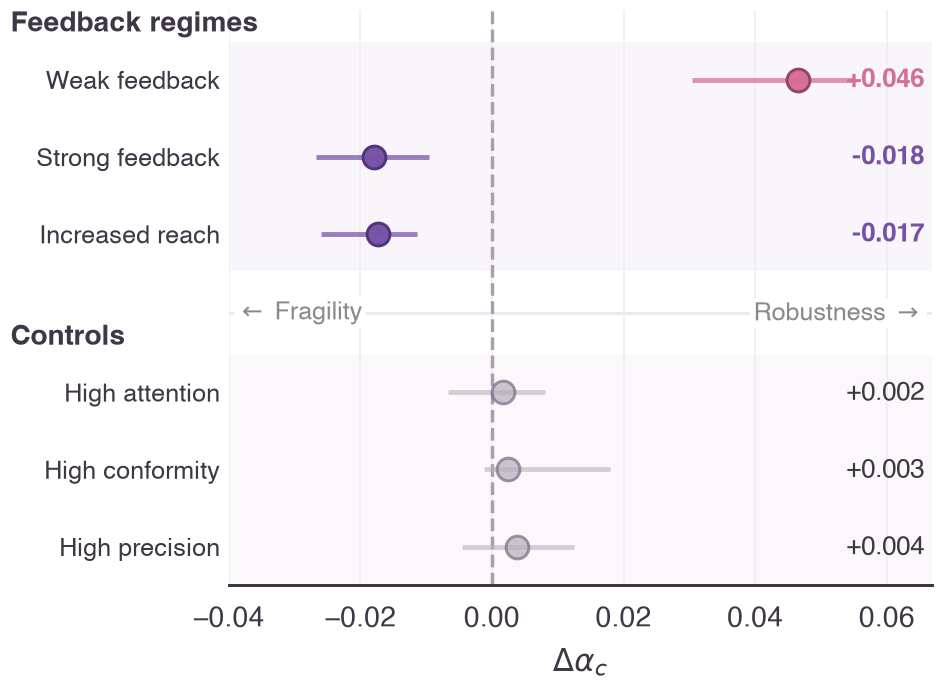
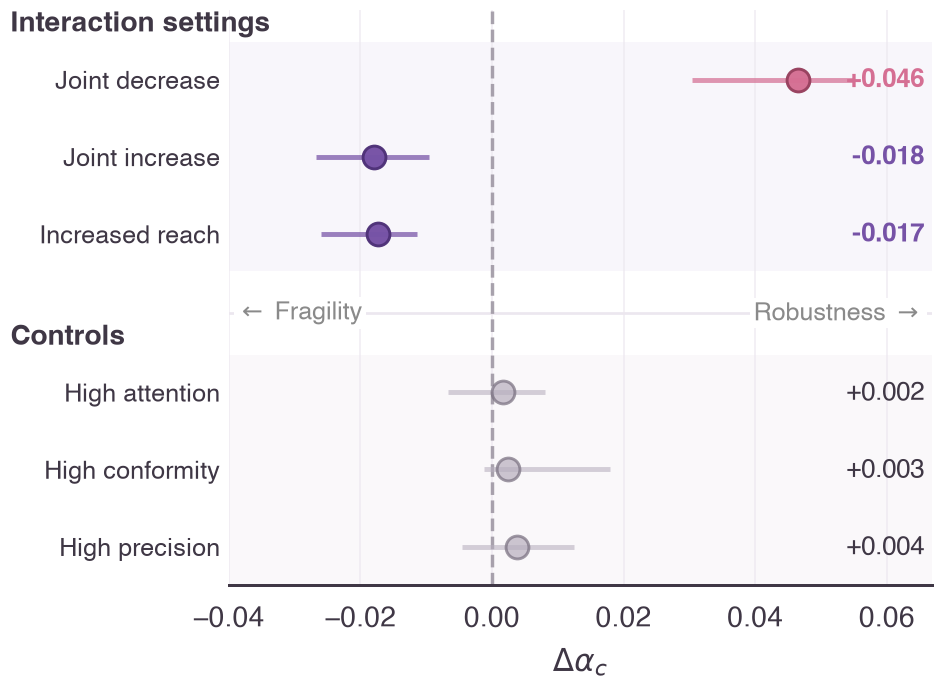
Align site and README with WolfSociety manuscript

Changed region(s): [[0.0, 0.0, 0.3079, 0.0611], [0.0308, 0.0917, 0.2463, 0.1528], [0.0308, 0.214, 0.2463, 0.2445]]

diff --git a/website/src/config/site.ts b/website/src/config/site.ts
@@ -1,11 +1,12 @@
 export const site = {
-  title: 'When Harm Scales',
-  subtitle: 'Social Dynamics of Nonlinear Collapse in Financial Agent Societies',
+  title: 'WolfSociety',
+  subtitle: 'Harmful-Agent Scaling and Collective Collapse in Financial Agent Societies',
   description:
-    'This work studies how harmful-agent scaling, social diffusion, and shared-state feedback shape critical transitions in interacting agent societies.',
+    'This work studies how harmful-agent composition, society size, and interaction structure shape collective collapse in a controlled financial agent society.',
   abstract: [
-    'Safety evaluations typically assess agents in isolation. Interacting agents, however, exchange messages and reshape shared environments, allowing local harmful behavior to propagate through social evidence, collective action, and market feedback. We study how society-level collapse varies with the harmful-agent fraction and population size in a controlled hybrid social–market environment.',
-    'We introduce Agent Society Dynamics, which separates size-dependent harmful pressure from amplification through shared-state feedback. Collapse is rare below a size-dependent boundary and rises sharply near it. As society size grows from 100 to 2,000, the measured 50% collapse boundary falls from 4.7% to 2.2%, while the corresponding effective harmful count, derived from the interpolated boundary, rises from 4.7 to 44. Fixed-count analyses show subcritical dilution, while matched interventions indicate that feedback strength and network reach shift the boundary under the tested protocol.',
+    'Safety evaluations typically focus on individual agents, but interacting agents can spread harmful information and influence the environment in which later decisions are made. We study how collective failure changes with harmful-agent fraction and society size in a controlled financial agent society, where agents communicate over a social network and trade in a shared market. In the primary scenario, collective failure requires broad harmful diffusion together with severe price dislocation or liquidity stress.',
+    'Across society sizes, failure remains rare at low harmful fractions but rises sharply over a narrow range. As the society grows from 100 to 2,000 agents, the harmful fraction associated with a 50% failure probability decreases from 4.7% to 2.2%, while the corresponding number of harmful agents increases from approximately 5 to 44. At a fixed harmful count, larger societies experience less severe disruption, and this pattern persists under fixed, square-root, and per-capita liquidity scaling. Controlled interventions further show that broader network reach shifts the collapse boundary toward lower harmful fractions, whereas stronger conformity alone has little effect.',
+    'To characterize these size-dependent effects, we introduce Agent Society Dynamics, a finite-size framework for relating harmful-agent composition, society size, and interaction structure to collective failure. Together, our results show that collective safety cannot be inferred from harmful-agent prevalence alone: the same harmful minority can have different system-level effects as the surrounding society grows.',
   ],
   authors: [
     'Lejun Zhang',
@@ -27,8 +28,8 @@ export const site = {
   },
 }
 
-export const bibtex = `@unpublished{zhang2027whenharm,
-  title={{When Harm Scales}: Social Dynamics of Nonlinear Collapse in Financial Agent Societies},
+export const bibtex = `@unpublished{zhang2027wolfsociety,
+  title={{WolfSociety}: Harmful-Agent Scaling and Collective Collapse in Financial Agent Societies},
   author={Zhang, Lejun and Lu-Liang, Sarah and Jiang, Xin and Wen, Muning and Zhang, Weinan and Gu, Shangding},
   note={Manuscript under review},
   year={2027}

diff --git a/website/src/components/SocialDynamics.tsx b/website/src/components/SocialDynamics.tsx
@@ -7,15 +7,15 @@ export function SocialDynamics() {
           We model collective failure as a closed-loop process. A harmful minority contributes pressure through communication and action; heterogeneous agents combine that pressure with private and social evidence; their responses then alter the shared social and market state observed by the rest of the population.
         </p>
         <p>
-          The framework separates attack aggregation, which describes how harmful pressure scales with society size, from feedback amplification, which captures amplification through shared-state feedback. Under a size-invariant collapse criterion, the sum of their scaling exponents determines how the critical harmful fraction changes with population size.
+          The framework connects the collapse boundary to two size-dependent components: initial harmful input, represented by αN<sup>δ</sup>, and the response that develops through subsequent interactions, represented by N<sup>ζ</sup>. Under a comparable collapse criterion across society sizes, their combined scaling gives ν = δ + ζ. We use this relation as a conceptual description; the experiments estimate the overall boundary exponent rather than identify δ and ζ as separate causal effects.
         </p>
       </div>
 
       <figure className="paper-figure theory-figure">
-        <div className="theory-flow" aria-label="Harmful pressure passes through heterogeneous decisions and shared-state feedback to create a collective response">
+        <div className="theory-flow" aria-label="Harmful input passes through heterogeneous decisions and repeated interaction to create a collective response">
           <div className="theory-step">
             <span className="theory-icon theory-icon--harm" aria-hidden="true">♠</span>
-            <strong>Harmful pressure</strong>
+            <strong>Harmful input</strong>
             <small>αN<sup>δ</sup></small>
           </div>
           <span className="theory-arrow" aria-hidden="true">→</span>
@@ -27,7 +27,7 @@ export function SocialDynamics() {
           <span className="theory-arrow" aria-hidden="true">→</span>
           <div className="theory-step theory-step--feedback">
             <span className="theory-icon" aria-hidden="true">↻</span>
-            <strong>Shared-state feedback</strong>
+            <strong>Repeated interaction</strong>
             <small>N<sup>ζ</sup></small>
           </div>
           <span className="theory-arrow" aria-hidden="true">→</span>
@@ -43,7 +43,7 @@ export function SocialDynamics() {
           <span>ν = δ + ζ</span>
         </div>
         <figcaption>
-          <strong>Figure 2.</strong> Agent Society Dynamics models the finite-size response through harmful-pressure aggregation (<em>δ</em>) and amplification by shared-state feedback (<em>ζ</em>). Under a size-invariant collapse criterion, their combined scaling determines how the critical harmful fraction changes with society size.
+          <strong>Figure 2.</strong> Agent Society Dynamics relates the collapse boundary to the scaling of initial harmful input (<em>δ</em>) and the response that develops through subsequent interactions (<em>ζ</em>). Under a comparable collapse criterion across society sizes, their combined scaling determines how the critical harmful fraction changes with society size.
         </figcaption>
       </figure>
     </section>

diff --git a/website/src/components/ScalingStory.tsx b/website/src/components/ScalingStory.tsx
@@ -29,22 +29,22 @@ export function ScalingStory() {
 
       <section className="paper-section-block" id="mechanisms">
         <div className="academic-content">
-          <h2>Why Does the Boundary Shift?</h2>
+          <h2>Interaction Conditions and Network Reach</h2>
           <p>
-            Matched interventions probe whether feedback structure contributes to the observed size effect, rather than treating population size alone as explanatory. Weakening feedback moves the collapse boundary toward a larger harmful fraction, whereas stronger coupling and broader network reach move it toward a smaller fraction.
+            The largest boundary shifts occur when several interaction parameters change together and when network reach increases. Jointly decreasing response precision, conformity, attention capacity, and graph degree moves the boundary toward a larger harmful fraction; jointly increasing them and separately increasing network reach move it toward a smaller fraction.
           </p>
           <p>
-            The fixed-count analysis provides a complementary check below the transition: when the harmful count is held fixed, the maximum joint severity of harmful diffusion and market disruption decreases with population size. This supports subcritical dilution, while the intervention results show that changing feedback strength shifts the critical boundary.
+            At a fixed harmful count, the maximum joint severity of harmful diffusion and market disruption decreases with population size under fixed, square-root, and per-capita liquidity scaling. High conformity alone changes the collapse boundary little, whereas increased network reach produces a clear leftward shift.
           </p>
         </div>
 
         <figure className="paper-figure paper-figure--result paper-figure--mechanism">
           <img
             src={`${base}intervention-effects.png`}
-            alt="Weak feedback shifts the critical harmful fraction rightward, while strong feedback and increased reach shift it leftward."
+            alt="Jointly decreasing four interaction parameters shifts the critical harmful fraction rightward, while jointly increasing them and increasing network reach shift it leftward."
           />
           <figcaption>
-            <strong>Figure 4.</strong> Mean change in the critical fraction under matched interventions. Weak feedback increases α<sub>c</sub> by {interventions.weakFeedback.toFixed(3)}; strong feedback and increased reach decrease it by {Math.abs(interventions.strongFeedback).toFixed(3)} and {Math.abs(interventions.increasedReach).toFixed(3)}, respectively. Positive values indicate greater robustness.
+            <strong>Figure 4.</strong> Mean paired changes in the critical fraction under matched interventions. Joint decrease increases α<sub>c</sub> by {interventions.jointDecrease.toFixed(3)}; joint increase and increased reach decrease it by {Math.abs(interventions.jointIncrease).toFixed(3)} and {Math.abs(interventions.increasedReach).toFixed(3)}, respectively. The two joint conditions change response precision, conformity, attention capacity, and graph degree together. Error bars show paired-bootstrap 95% confidence intervals; positive values indicate greater robustness.
           </figcaption>
         </figure>
       </section>

diff --git a/website/src/components/FutureWork.tsx b/website/src/components/FutureWork.tsx
@@ -4,10 +4,10 @@ export function FutureWork() {
       <div className="academic-content">
         <h2>WolfBench</h2>
         <p>
-          The controlled social–market environment used in this study is a starting point for WolfBench, an ongoing effort to broaden the evaluation of collective failure and defenses in interacting agent systems. The current release should be read as a research instrument, not as a finished benchmark.
+          We package the simulator, manipulation scenarios, and evaluation interfaces as WolfBench, a controlled research environment for studying collective failure across harmful-agent composition and society size. The installable Python package and command-line interface retain the name <code>wolfbench</code>.
         </p>
         <p>
-          Future work will expand the environment across scenarios, agent roles, and interaction structures; strengthen calibration and controller audits; and develop common interfaces for comparing defenses designed to limit harmful propagation, disrupt harmful shared-state feedback, and prevent society-level collapse.
+          Future work will expand the environment across scenarios, agent roles, interaction structures, and fully LLM-controlled populations; strengthen calibration and controller audits; and develop common interfaces for comparing defenses against harmful propagation and society-level collapse.
         </p>
       </div>
     </section>

diff --git a/website/index.html b/website/index.html
@@ -4,11 +4,11 @@
     <meta charset="UTF-8" />
     <link rel="icon" type="image/svg+xml" href="%BASE_URL%favicon.svg" />
     <meta name="viewport" content="width=device-width, initial-scale=1.0" />
-    <meta name="theme-color" content="#0d0910" />
-    <meta name="description" content="A study of how harmful-agent scaling and shared-state feedback shape collective collapse." />
-    <meta property="og:title" content="When Harm Scales" />
-    <meta property="og:description" content="Explore how harmful-agent fraction, society size, and shared-state feedback shape collective failure." />
-    <title>When Harm Scales</title>
+    <meta name="theme-color" content="#ffffff" />
+    <meta name="description" content="A study of harmful-agent scaling and collective collapse in financial agent societies." />
+    <meta property="og:title" content="WolfSociety" />
+    <meta property="og:description" content="Explore how harmful-agent composition, society size, and interaction structure shape collective failure." />
+    <title>WolfSociety</title>
   </head>
   <body>
     <div id="root"></div>

diff --git a/website/src/components/PaperSection.tsx b/website/src/components/PaperSection.tsx
@@ -23,7 +23,7 @@ export function PaperSection() {
       </div>
       <div className={`bibtex-panel${copied ? ' bibtex-panel--copied' : ''}`}>
         <div className="bibtex-toolbar">
-          <span><i aria-hidden="true" /><i aria-hidden="true" /><i aria-hidden="true" /> when-harm-scales.bib</span>
+          <span><i aria-hidden="true" /><i aria-hidden="true" /><i aria-hidden="true" /> wolfsociety.bib</span>
           <button type="button" onClick={copyBibtex} aria-label="Copy BibTeX citation">
             {copied ? <Check size={16} /> : <Clipboard size={16} />}
             {copied ? 'Copied!' : 'Copy citation'}
@@ -32,7 +32,7 @@ export function PaperSection() {
         <pre><code>{bibtex}</code></pre>
       </div>
       <footer>
-        <p>When Harm Scales · Academic project page</p>
+        <p>WolfSociety · Academic project page</p>
       </footer>
     </section>
   )

diff --git a/website/src/data/results.ts b/website/src/data/results.ts
@@ -20,8 +20,8 @@ export const exponent = {
 }
 
 export const interventions = {
-  weakFeedback: 0.046,
-  strongFeedback: -0.018,
+  jointDecrease: 0.046,
+  jointIncrease: -0.018,
   increasedReach: -0.017,
 }
 

diff --git a/README.md b/README.md
@@ -1,19 +1,27 @@
-# When Harm Scales
+# WolfSociety
 
-**Social Dynamics of Nonlinear Collapse in Financial Agent Societies**
+**Harmful-Agent Scaling and Collective Collapse in Financial Agent Societies**
 
 [Project Page](https://zhanglejun02.github.io/when-harm-scales/) · [Paper](https://zhanglejun02.github.io/when-harm-scales/papers/when-harm-scales.pdf)
 
 <p align="center">
   <a href="https://zhanglejun02.github.io/when-harm-scales/">
-    <img src="website/public/teaser.png" width="820" alt="When Harm Scales project overview">
+    <img src="website/public/teaser.png" width="820" alt="WolfSociety project overview">
   </a>
 </p>
 
-This project studies how a harmful minority can trigger nonlinear collapse in
-interacting financial-agent societies. The environment closes the loop between
-agent behavior, social propagation, and shared market state, making it possible
-to measure how the collapse boundary changes with society size.
+WolfSociety studies how harmful-agent composition and society size shape
+collective collapse in a controlled financial agent society. In the primary
+scenario, the harmful fraction associated with a 50% failure probability falls
+from 4.7% at 100 agents to 2.2% at 2,000 agents, while the corresponding harmful
+count rises from approximately 5 to 44.
+
+At a fixed harmful count, larger societies experience less severe disruption
+under fixed, square-root, and per-capita liquidity scaling. Controlled
+interventions further distinguish joint changes to the interaction setting
+from individual components: broader network reach shifts the collapse boundary
+toward lower harmful fractions, whereas stronger conformity alone has little
+effect.
 
 The repository contains the simulator, command-line tools, controlled scenarios,
 and the experiment runners used for scaling, mechanism, and robustness studies.
@@ -136,10 +144,10 @@ The principal experiment runners are:
 | --- | --- |
 | `p00_validate` | integration and clean-state sanity checks |
 | `p01_nonlinear_scaling` | nonlinear response and finite-size scaling |
-| `p02_size_decomposition` | fixed-count social and liquidity decomposition |
+| `p02_size_decomposition` | fixed-count response and liquidity-scaling analysis |
 | `p03_cross_scenario` | cross-scenario scope checks |
-| `p04_game_phase` | coupling phase diagram |
-| `p05_information_cascade` | private-to-social information cascade |
+| `p04_game_phase` | interaction-condition and network-reach interventions |
+| `p05_information_cascade` | private-to-social information balance |
 | `p06_role_robustness` | role and behavioral-diversity robustness |
 
 Every runner supports three execution scales:
@@ -185,4 +193,4 @@ not versioned.
 
 ## License
 
-Released under the [MIT License](LICENSE).
+Released under the [Apache License 2.0](LICENSE).

diff --git a/website/README.md b/website/README.md
@@ -1,10 +1,10 @@
-# When Harm Scales project website
+# WolfSociety project website
 
-Interactive academic project page for **When Harm Scales: Social Dynamics of Nonlinear Collapse in Financial Agent Societies**.
+Interactive academic project page for **WolfSociety: Harmful-Agent Scaling and Collective Collapse in Financial Agent Societies**.
 
-The page follows a classic paper-first project-page structure: title and authors, Paper/Code resources, the paper teaser, two small conceptual animations, abstract, Agent Society Dynamics, scaling and intervention figures, WolfBench future work, and BibTeX. The research figures carry most of the visual identity; the surrounding interface stays quiet and academic.
+The page follows a classic paper-first project-page structure: title and authors, Paper/Code resources, the paper teaser, three compact animations, abstract, Agent Society Dynamics, scaling and intervention figures, the WolfBench release scope, and BibTeX. The research figures carry most of the visual identity; the surrounding interface stays quiet and academic.
 
-The name **WolfBench** is intentionally reserved for the final future-work section. It describes the working goal of turning the current controlled environment into a broader, better validated evaluation environment; the page does not present it as a finished benchmark.
+**WolfSociety** is the paper title. **WolfBench** names the released simulator, scenarios, evaluation interfaces, Python package, and CLI. The page presents WolfBench as a controlled research environment rather than a production market model.
 
 ## Development
 
@@ -25,7 +25,7 @@ The findings values are centralized in the results module and currently mirror:
 
 - `paper_experiments_v3/figures/generated/table2_scaling_results.csv`
 - `paper_experiments_v3/figures/generated/table3_scaling_exponent_bootstrap.csv`
-- the P04 intervention summary in the final manuscript
+- the interaction-condition intervention summary in the final manuscript
 
 The mathematical framework displays the manuscript relation $\alpha_c(N)\propto N^{-\nu}$, $K_c(N)\propto N^{1-\nu}$, and $\nu=\delta+\zeta$ directly in HTML.
 
